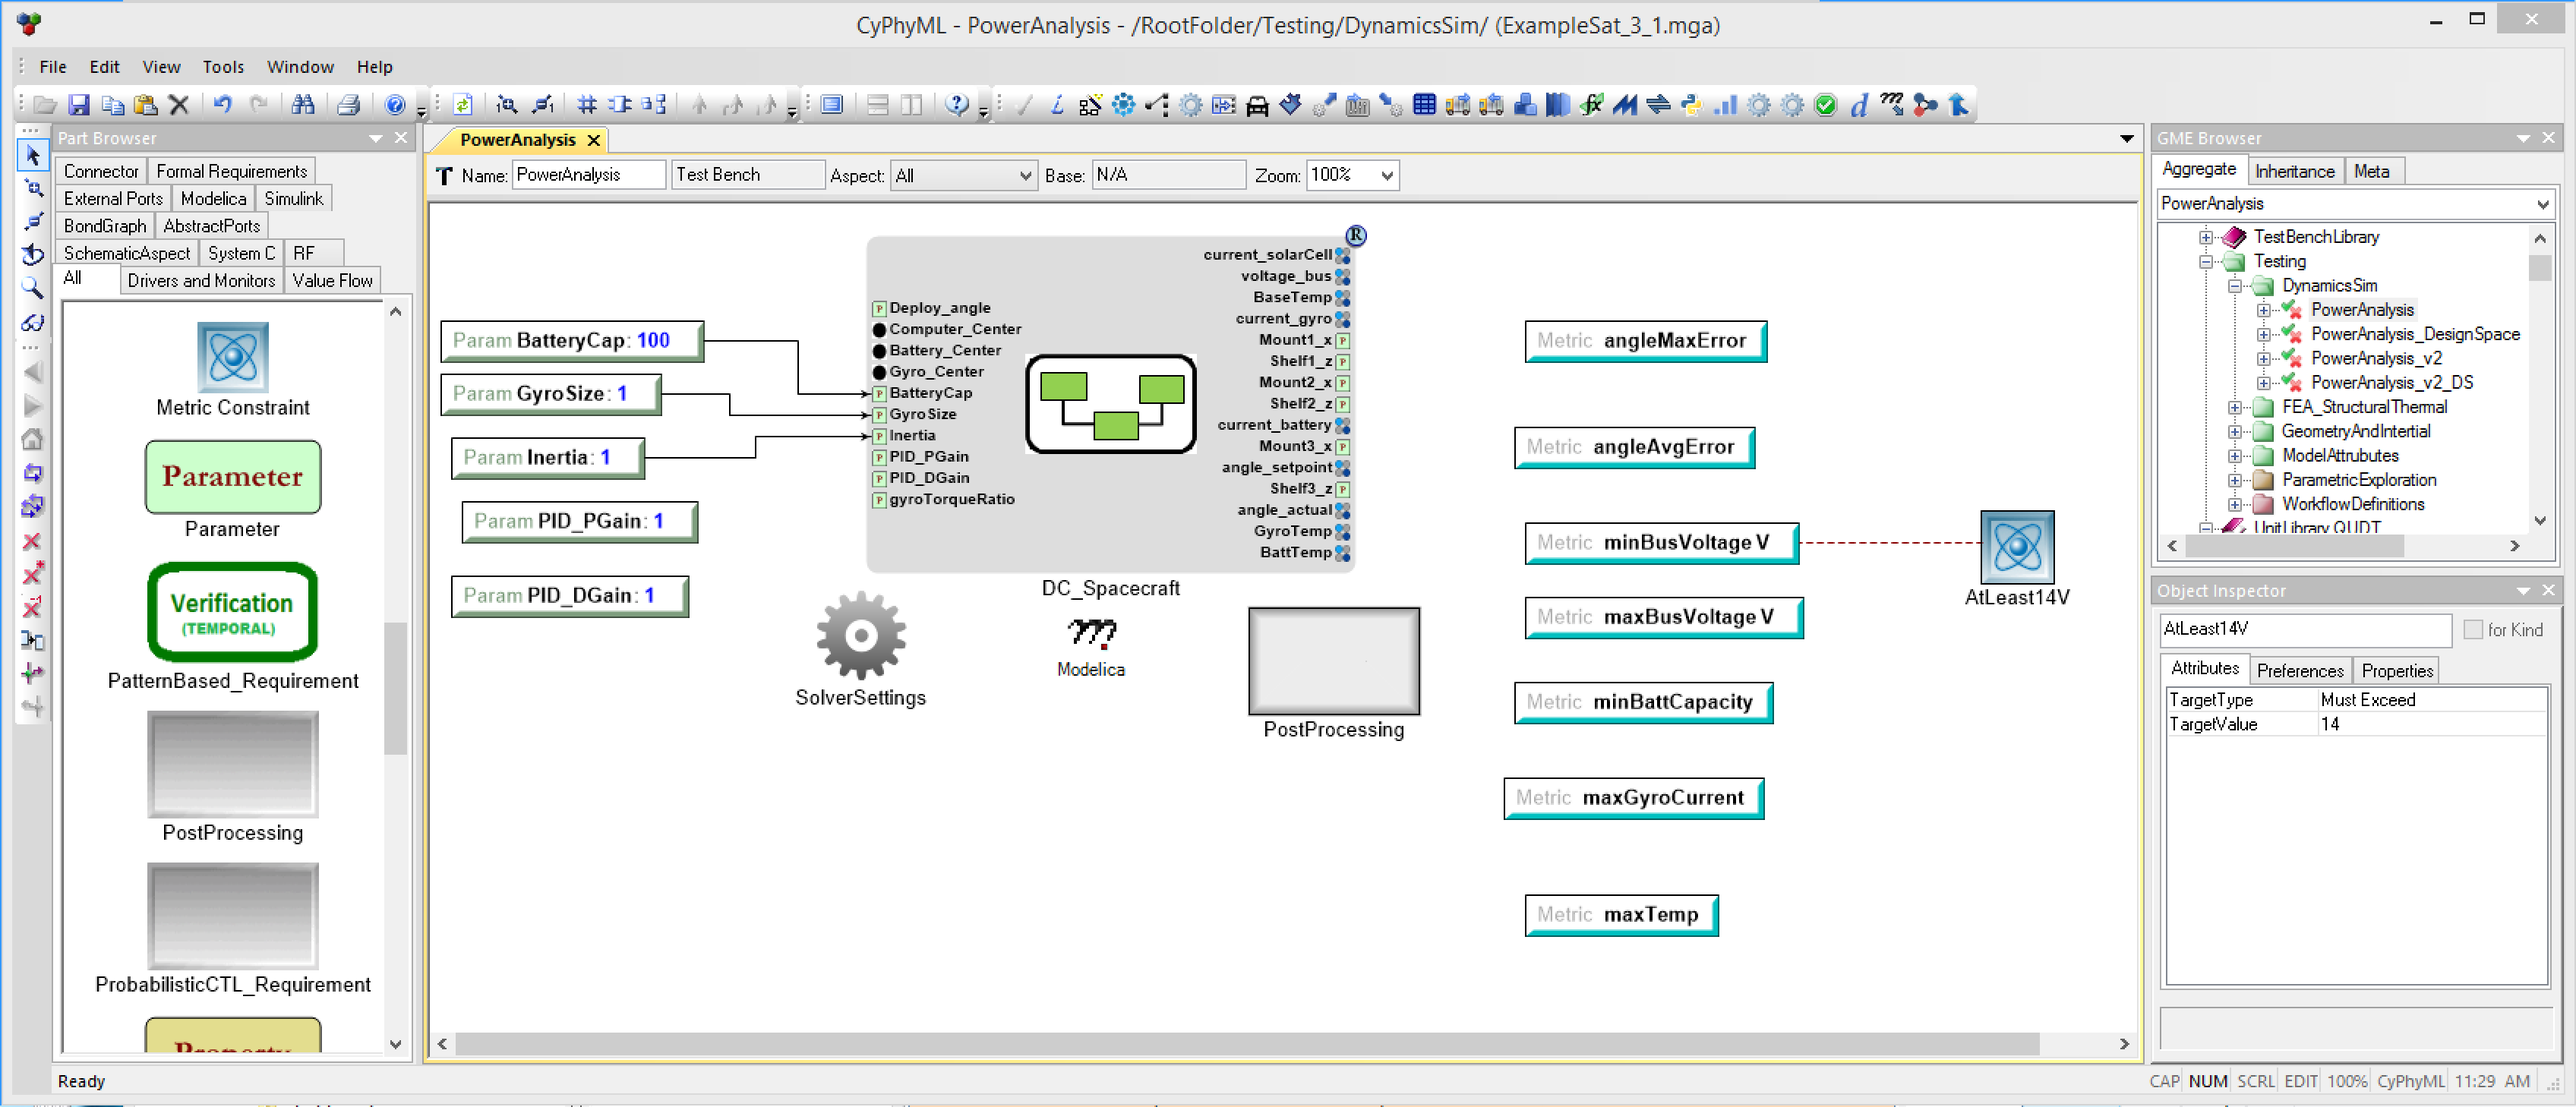
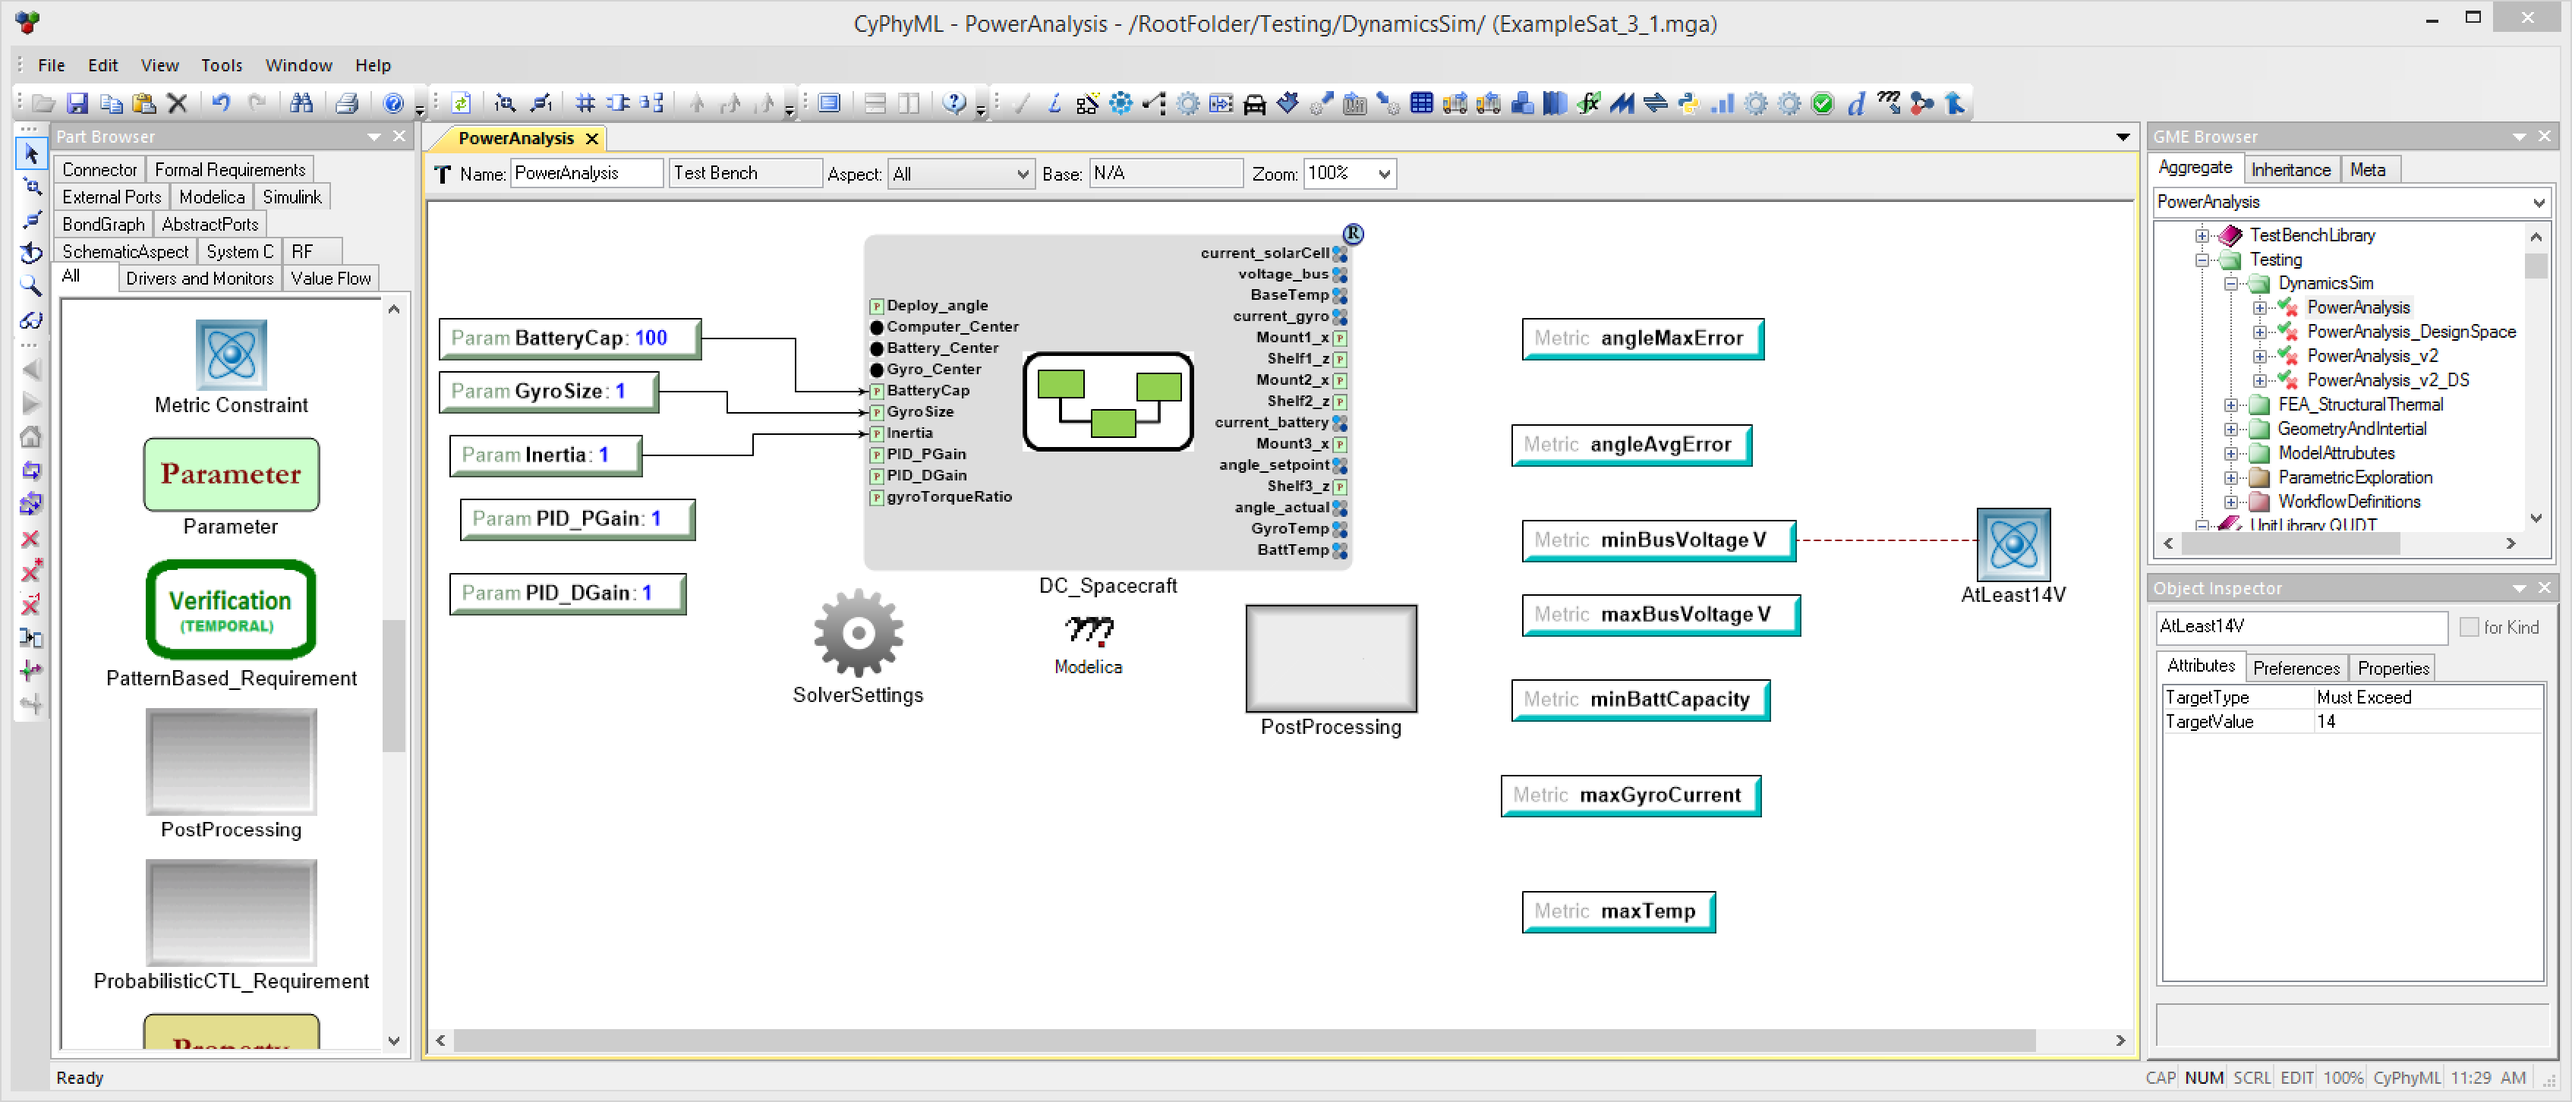
Image scaling fixes.

diff --git a/docs/doc/09-utilities/03-ContinuousIntegration.md b/docs/doc/09-utilities/03-ContinuousIntegration.md
@@ -6,11 +6,11 @@ OpenMETA models can be integrated with Continuous Integration (CI) methods to pr
 ### Configuring the Jenkins job
 For this example, we'll use the Jenkins CI platform. We'll create a new Freestyle project that polls the repository for changes. Our test model will be the open-source [<b>Spacecraft Study</b>](https://github.com/metamorph-inc/openmeta-spacecraft-study) model project available on GitHub.
 
-![](images/12-04-JobName.png)
+<img src="images/12-04-JobName.png" alt="Job Name" style="width: 947px;"/>
 
 In the Source Code Management section, we'll configure the job to poll the master branch of the repo on a five-minute interval.
 
-![](images/12-04-SCM.png)
+<img src="images/12-04-SCM.png" alt="SCM" style="width: 948px;"/>
 
 Next, we need to configure Jenkins to run the utility script that will automatically run the Test Benches in the OpenMETA project.
 
@@ -35,11 +35,11 @@ Part | Description
 
 We must also add a **Publish JUnit test result report** Post-build Action to the Jenkins job, telling it to grab the `nosetests.xml` test report.
 
-![](images/12-04-BuildAndPostBuild.png)
+<img src="images/12-04-BuildAndPostBuild.png" alt="Build and Post Build" style="width: 947px;"/>
 
 Test reports in Jenkins include a list of tests, markings for those passing and failing, and duration measurements for the time it took to conduct the test. For failed tests, status messages indicate the nature and reason for failure.
 
-![](images/12-04-TestReport.png)
+<img src="images/12-04-TestReport.png" alt="Test Report" style="width: 548px;"/>
 
 ### Configuring the OpenMETA Model
 By default, the automation script will run each Test Bench and inform Jenkins if any of them fail to run. However, the model creator can add more detail, setting target and threshold values for Test Bench parameters. If the Test Bench results fail to meet these targets, the test report will mark them as failing tests.
@@ -48,5 +48,5 @@ This can be useful for regression-testing the _performance_ of a design, warning
 
 Using our [<b>Spacecraft Study</b>](https://github.com/metamorph-inc/openmeta-spacecraft-study) example, we'll add a **Metric Constraint** object to our **PowerAnalysis** Test Bench. By connecting it to the *minBusVoltage* Metric, then setting it to have **TargetType "MustExceed"** and **TargetValue** of **14V**, we tell the testing script to mark the Test Bench as *failed* if the calculated *minBusVoltage* drops below 14V due to a model change.
 
-![](images/12-04-MetricConstraint.png)
+<img src="images/12-04-MetricConstraint.png" alt="Metric Constraint" style="width: 1694px;"/>
 

diff --git a/docs/doc/12-visualizer/07-Filters.md b/docs/doc/12-visualizer/07-Filters.md
@@ -13,7 +13,7 @@ This button will return the visible filters to their original state (fully opene
 **3. Filters**
 These filters (3 filters are shown above in the picture), will carve out the dataset to include only the points that fit within the ranges for each variable.  If you limit the dataset to have 0 points a message will appear in the pairs plot telling you that “there are no data points that fit the current filtering scheme”. 
 
-![Exact Entry](images/filter_exactentry.png)
+<img src="images/filter_exactentry.png" alt="Exact Entry"/>
 
 **4. Exact Entry Window**
 When a slider is 'double-clicked', a new window opens up allowing the user to specify an exact range for the filter.  The window shows the name of the variable along with text fields for minimum and maximum range.

diff --git a/docs/doc/12-visualizer/08-CustomTabs.md b/docs/doc/12-visualizer/08-CustomTabs.md
@@ -68,7 +68,7 @@ The `server` function is where we describe the backend processing that produces 
 
 The rendered tab looks like this:
 
-<img src="images/histogramTab.png" alt="Example Histogram Tab" style="width: 800px;"/>
+<img src="images/histogramTab.png" alt="Example Histogram Tab" style="width: 1110px;"/>
 
 This example can be found at `C:\Program Files (x86)\META\bin\Dig\tabs\examples\exampleTab1.R` (or wherever you installed OpenMETA) and used as the basis for creating tabs of your own.
 

diff --git a/docs/doc/11-resultsbrowser/03-testbenchtab.md b/docs/doc/11-resultsbrowser/03-testbenchtab.md
@@ -1,6 +1,6 @@
 ## Test Bench Tab
 
-<img src="images/testbenchtab.png" alt="Test Bench Tab" style="width: 800px;"/>
+<img src="images/testbenchtab.png" alt="Test Bench Tab" style="width: 954px;"/>
 
 ### Test Bench List Pane
 

diff --git a/docs/doc/11-resultsbrowser/04-activejobs.md b/docs/doc/11-resultsbrowser/04-activejobs.md
@@ -1,6 +1,6 @@
 ## Active Jobs Tab
 
-<img src="images/activejobs.png" alt="Active Jobs" style="width: 800px;"/>
+<img src="images/activejobs.png" alt="Active Jobs" style="width: 957px;"/>
 
 ### Active Jobs List Pane
 

diff --git a/docs/doc/11-resultsbrowser/01-toolbar.md b/docs/doc/11-resultsbrowser/01-toolbar.md
@@ -1,4 +1,4 @@
-<img src="images/pettab.png" alt="Toolbar and PET Tab" style="width: 800px;"/>
+<img src="images/pettab.png" alt="Toolbar and PET Tab" style="width: 954px;"/>
 
 ## Toolbar
 
